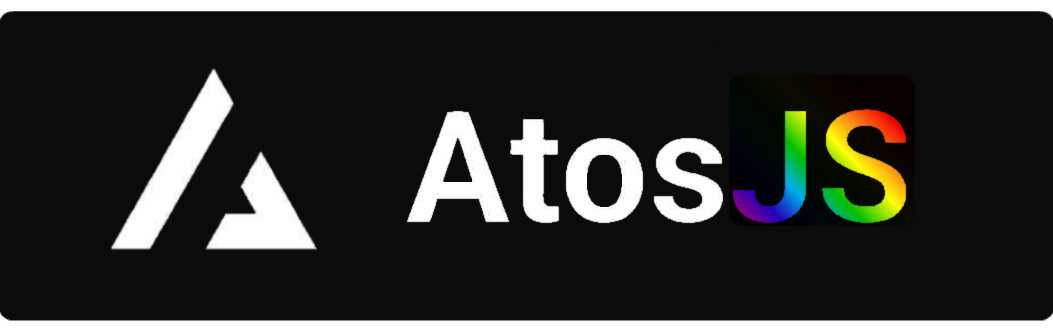
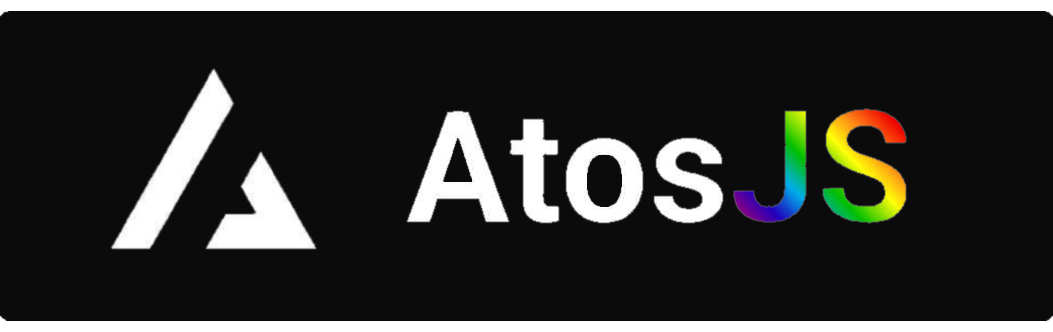
Azura: sistema de cache modificado para evitar bug e imagem do atosJS sem o cubiculo atras kaakakkakakak

diff --git a/packages/azura/src/utils/cacheManager.ts b/packages/azura/src/utils/cacheManager.ts
@@ -1,4 +1,3 @@
-// src/utils/cacheManager.ts
 export class LRUCache<T> {
   private cache: Map<string, { value: T; expiresAt?: number }>;
   private maxSize: number;
@@ -10,13 +9,10 @@ export class LRUCache<T> {
     this.ttl = ttl;
   }
 
-  has(key: string): boolean {
-    return this.cache.has(key) && !this.isExpired(key);
-  }
-
   private isExpired(key: string): boolean {
     const entry = this.cache.get(key);
     if (!entry || entry.expiresAt === undefined) return false;
+
     if (Date.now() > entry.expiresAt) {
       this.cache.delete(key);
       return true;
@@ -25,21 +21,36 @@ export class LRUCache<T> {
   }
 
   get(key: string): T | undefined {
-    if (!this.has(key)) return undefined;
-    const entry = this.cache.get(key)!;
+    const entry = this.cache.get(key);
+    if (!entry || this.isExpired(key)) return undefined;
+
     this.cache.delete(key);
     this.cache.set(key, entry);
+
     return entry.value;
+  }
+
+  has(key: string): boolean {
+    if (this.isExpired(key)) return false;
+    return this.cache.has(key);
   }
 
   set(key: string, value: T) {
     const expiresAt = this.ttl > 0 ? Date.now() + this.ttl : undefined;
-    if (this.cache.has(key)) {
-      this.cache.delete(key);
-    } else if (this.cache.size >= this.maxSize) {
+
+    if (this.cache.size >= this.maxSize && !this.cache.has(key)) {
       const firstKey = this.cache.keys().next().value;
       this.cache.delete(firstKey!);
     }
+
     this.cache.set(key, { value, expiresAt });
+
+    this.cleanupExpired();
+  }
+
+  private cleanupExpired() {
+    for (const key of this.cache.keys()) {
+      this.isExpired(key);
+    }
   }
 }

diff --git a/packages/azura/src/core/server.ts b/packages/azura/src/core/server.ts
@@ -72,11 +72,14 @@ export default async function serverConnection(
     if (aborted) return;
 
     try {
-      if (app.cache.has(cacheKey)) {
+      if (app.options.cache && app.cache.has(cacheKey)) {
         const response = createResponse(res, app);
+        const cachedData = app.cache.get(cacheKey);
+
         if (app.options.logging && !isProd)
           console.log(chalk.yellow(`${figures.info} ${method} ${url} - Cache Hit`));
-        response.send(app.cache.get(cacheKey));
+
+        response.send(cachedData);
         return;
       }
 
@@ -128,8 +131,9 @@ export default async function serverConnection(
               chalk.green(`${figures.pointer} ${method} ${url} - ${duration.toFixed(2)}ms`)
             );
           }
-          if (method === "GET") {
-            app.cache.set(cacheKey, response);
+
+          if (app.options.cache && method === "GET") {
+            app.cache.set(cacheKey, response.body);
           }
         } catch (handlerErr) {
           console.error("Erro no handler da rota:", handlerErr);

diff --git a/packages/azura/src/AzuraServer.ts b/packages/azura/src/AzuraServer.ts
@@ -25,7 +25,7 @@ class AzuraServer {
       AzuraServer.instance = this;
     }
     const cacheSize = this.options.cacheSize ?? 1000;
-    const cacheTTL = this.options.cacheTTL ?? 0;
+    const cacheTTL = this.options.cacheTTL ?? 60000;
     this.cache = new LRUCache(cacheSize, cacheTTL);
     this.router = new RouterManager();
   }

diff --git a/packages/azura/src/types/index.d.ts b/packages/azura/src/types/index.d.ts
@@ -56,6 +56,7 @@ export interface ServerOptions {
   server?: ConfigParams;
   logging?: boolean;
   jsonParser?: boolean;
+  cache?: boolean;
   cacheSize?: number;
   cacheTTL?: number;
   cors?: boolean;
